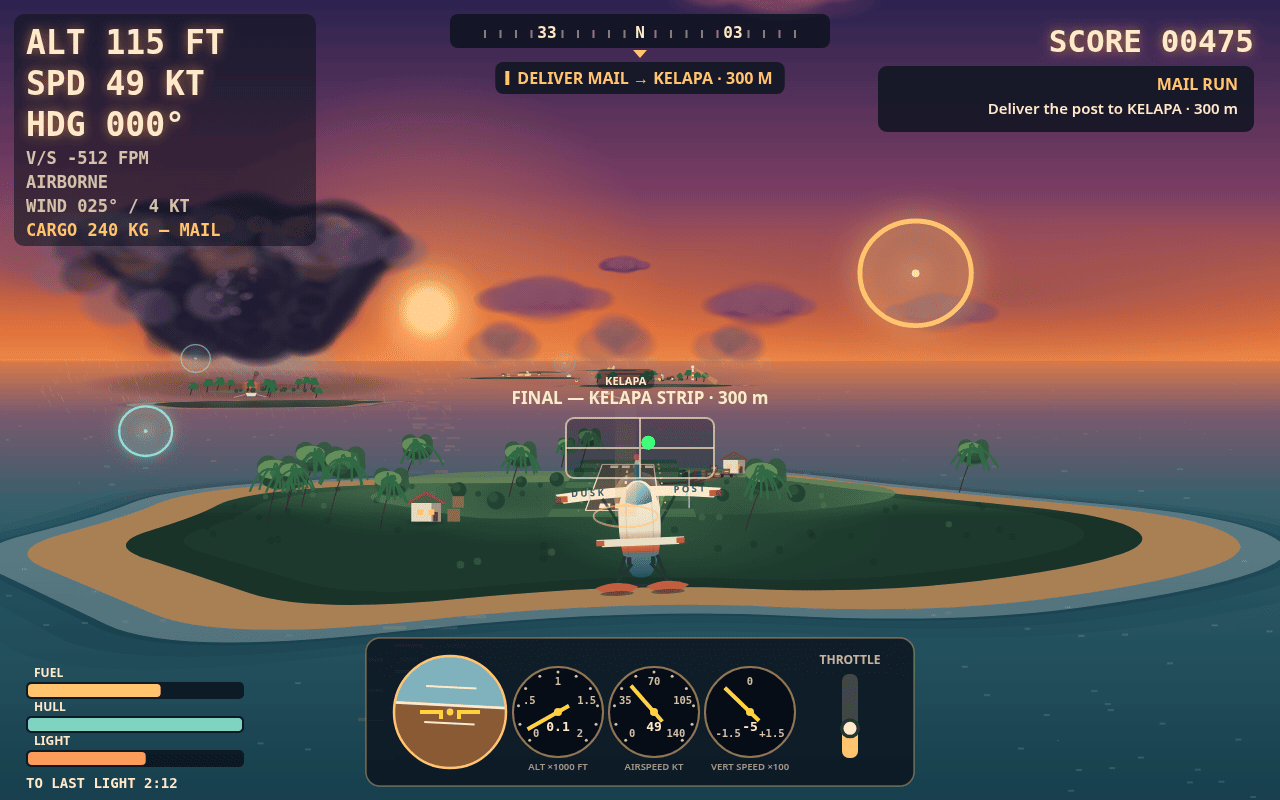
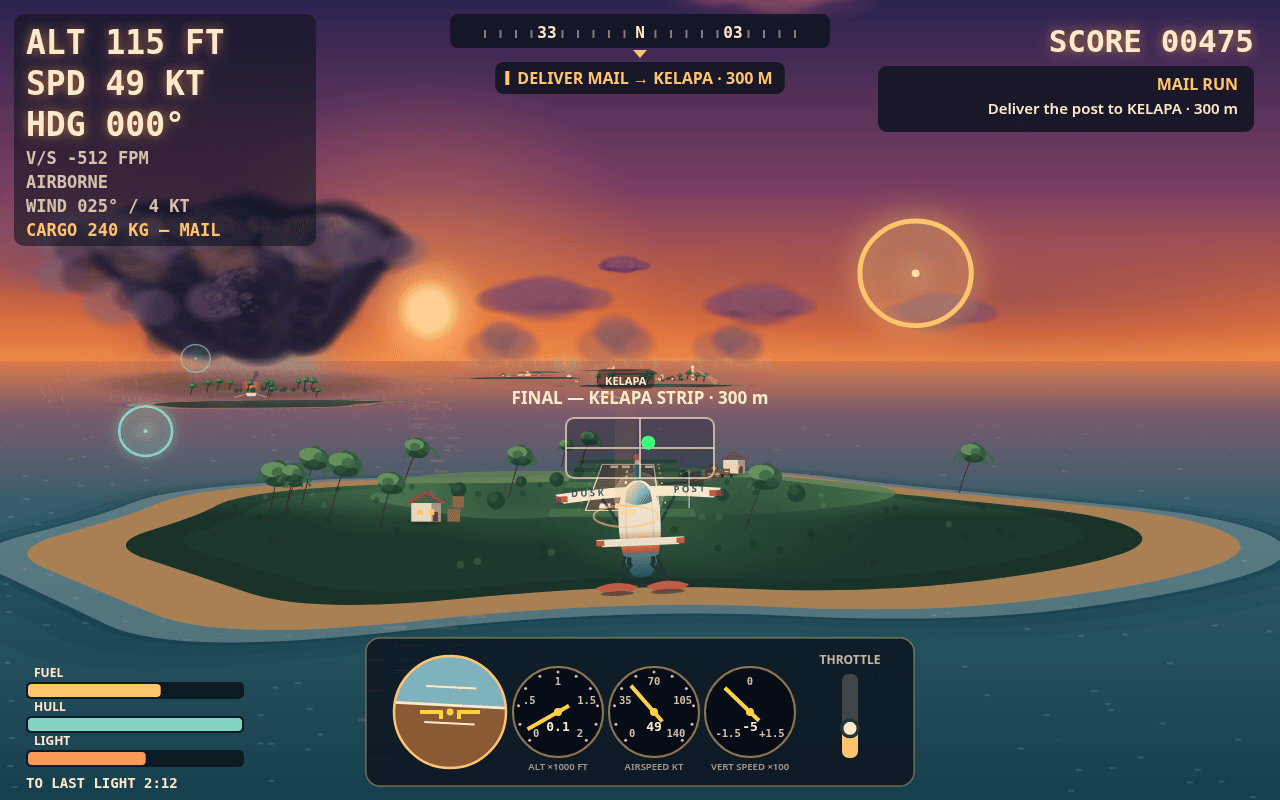
V16: per-band sea density, rain that reads, tree palms, lumpy shoulder
- drawSea: mid-band frame-biased pass (fwd 600-1400) closes the gap
  between the near-water gate and the far-band loop; left-weighted
  second near-water pass concentrates density in the thin boxes
  (delivery far-left 26->109 px >12, cover BL 114->239)
- drawStorm: bottom-band stipple extended py 560-796, count 160,
  stronger alpha (mid-right sea 49->201, storm BR 343->444)
- drawSquall: gap washes wider/brighter + post-puff gap lift,
  streaks 27->34 at 0.32 alpha, longer fall
- drawStorm shoulder: jittered duplicate mottle (dash pass removed:
  read as scratches); palms frond-first, smaller hub, three-bump
  ridge crowns, shorter hugging fronds
- Audit 11 problems: 5 fixed, 3 partial, 3 not fixed (shoulder discs
  still read at 2x; storm FUEL strip 13->18; approach mid-right sea
  403->364, mid-band keeps nothing at that camera)
- Gates: chain ALL PASS zero console errors; storm maxTurb 0.890,
  vy swing 1.66; squall kind squall turb 0.85; main.ts x2 diff clean,
  dossier md5 4d50c7b4d79c9829df00b3b4b7d996d8, output 1697131 B

diff --git a/game/src/render.js b/game/src/render.js
@@ -313,6 +313,80 @@ function drawSea(ctx, v, plane, light) {
     ctx.globalAlpha = clamp(0.5 - p.fwd / 2600, 0.10, 0.25);
     ctx.fillRect(p.x - len / 2, p.y, len, 2);
   }
+  // V16: a mid-band pass for the sea neither loop reaches — the
+  // near-water pass gates fwd ≤ 600 and the far-band loop samples
+  // py only up to horizon+90, so screen y horizon+90…+260 (fwd
+  // 600–1400 at the cover camera) carries no dashes at all: the
+  // cover's mid-right sea is dead flat (0 px >12) and the
+  // approach's mid-right sea is thin (V16 audit problems 6, 8).
+  // Same frame-biased sampling as the far-band loop, same dash
+  // shape; the far-band loop is untouched.
+  // V16 rev: the first render's dashes measured 0 px >12 in the
+  // target box — the fillStyle alpha (0.35) multiplies the
+  // globalAlpha (0.10–0.25), so each dash changed its pixels by
+  // ~5–7 levels, below the metric and below the eye. This pass
+  // sets its own fillStyle (alpha 1.0) so the globalAlpha below
+  // is the dash's real alpha: 0.12–0.30, the same strength the
+  // near-water dashes carry at mid range.
+  ctx.fillStyle = 'rgba(220,245,245,1)';
+  for (let i = 0; i < 90; i += 1) {
+    const hash = (salt) => {
+      const h = Math.sin(i * 12.9898 + salt * 7.77 + 17.3) * 43758.5453;
+      return h - Math.floor(h);
+    };
+    const px = 4 + hash(1) * 1272;
+    const py = v.horizon + 90 + hash(2) * 170;
+    if (py > 616 && py < 794 && px > 326 && px < 954) continue; // instrument panel
+    if (py > 641 && py < 796 && px > 16 && px < 249) continue; // fuel/hull gauges
+    const s = (py - v.horizon) / v.camY;
+    const fwd = v.focal / s;
+    if (fwd < 600 || fwd > 1400) continue;
+    const right = (px - VIEW_W / 2) / s;
+    const wx = v.camX + fwd * v.sinH + right * v.cosH;
+    const wz = v.camZ + fwd * v.cosH - right * v.sinH;
+    const p = project(v, wx, 0, wz);
+    if (!p) continue;
+    const len = clamp(p.s * 0.35, 4, 12);
+    ctx.globalAlpha = clamp(0.6 - p.fwd / 2600, 0.12, 0.30);
+    ctx.fillRect(p.x - len / 2, p.y, len, 2);
+  }
+  // V16: a left-weighted second near-water pass — the frame-biased
+  // pass spreads its 180 dashes over the whole visible sea, so a
+  // 150×40 px box holds ~4 of them: the delivery far-left sea
+  // (26 px >12), the cover's bottom-left sea (114) and the narrow
+  // strip between the FUEL and instrument panels (52/104) are all
+  // thin for the same reason (V16 audit problems 1, 5, 11). This
+  // pass samples only the frame's left third (px 4–460) with the
+  // same fwd gate and dash shape as the first pass, so those boxes
+  // get their own density instead of the frame's average. The
+  // existing 180-dash pass is unchanged.
+  // V16 rev: the first render lifted the delivery box only
+  // 26 → 71 and the cover BL only 114 → 180 — the pass works,
+  // it is just thin per box. Count 70 → 140. (The mid-band pass
+  // above sets fillStyle to alpha 1.0; this pass restores the
+  // 0.35 the near-water alpha math assumes.)
+  ctx.fillStyle = 'rgba(220,245,245,0.35)';
+  for (let i = 0; i < 140; i += 1) {
+    const hash = (salt) => {
+      const h = Math.sin(i * 12.9898 + salt * 7.77 + 23.7) * 43758.5453;
+      return h - Math.floor(h);
+    };
+    const px = 4 + hash(1) * 456;
+    const py = v.horizon + 24 + hash(2) * (796 - v.horizon - 24);
+    if (py > 616 && py < 794 && px > 326 && px < 954) continue; // instrument panel
+    if (py > 641 && py < 796 && px > 16 && px < 249) continue; // fuel/hull gauges
+    const s = (py - v.horizon) / v.camY;
+    const fwd = v.focal / s;
+    if (fwd < 80 || fwd > 600) continue;
+    const right = (px - VIEW_W / 2) / s;
+    const wx = v.camX + fwd * v.sinH + right * v.cosH;
+    const wz = v.camZ + fwd * v.cosH - right * v.sinH;
+    const p = project(v, wx, 0, wz);
+    if (!p) continue;
+    const len = clamp(p.s * 0.35, 6, 30);
+    ctx.globalAlpha = clamp(0.5 - p.fwd / 2600, 0.10, 0.4);
+    ctx.fillRect(p.x - len / 2, p.y, len, Math.max(2, p.s * 0.04));
+  }
   ctx.globalAlpha = 1;
 }
 
@@ -486,16 +560,20 @@ function drawSquall(ctx, v, sq, t) {
   // showers. A gap that is only absence reads as nothing at judge
   // size; a gap with light in it reads as a break in weather, which
   // is the squall's whole tactical story (a line you can time).
+  // V16: the washes were still marginal at judge size (V16 audit
+  // problem 2) — wider (0.08 → 0.12 half-width) and brighter
+  // (0.16 → 0.22 top), judged against the smear risk after the
+  // render: if the wash reads as a second bank, it is too much.
   for (const gfx of [-0.35, 0.35]) {
     const grad = ctx.createLinearGradient(0, baseY, 0, seaY);
-    grad.addColorStop(0, 'rgba(216,198,208,0.16)');
-    grad.addColorStop(1, 'rgba(216,198,208,0.05)');
+    grad.addColorStop(0, 'rgba(216,198,208,0.22)');
+    grad.addColorStop(1, 'rgba(216,198,208,0.08)');
     ctx.fillStyle = grad;
     ctx.beginPath();
-    ctx.moveTo(base.x + (gfx - 0.08) * halfW, baseY);
-    ctx.lineTo(base.x + (gfx + 0.08) * halfW, baseY);
-    ctx.lineTo(base.x + (gfx + 0.10) * halfW, seaY);
-    ctx.lineTo(base.x + (gfx - 0.10) * halfW, seaY);
+    ctx.moveTo(base.x + (gfx - 0.12) * halfW, baseY);
+    ctx.lineTo(base.x + (gfx + 0.12) * halfW, baseY);
+    ctx.lineTo(base.x + (gfx + 0.14) * halfW, seaY);
+    ctx.lineTo(base.x + (gfx - 0.14) * halfW, seaY);
     ctx.closePath();
     ctx.fill();
   }
@@ -505,16 +583,21 @@ function drawSquall(ctx, v, sq, t) {
   // rain is discrete now: ~27 streaks, alpha 0.28, 2 px wide —
   // short dashes, not a smear. (Length, ~0.55 of the fall, was
   // already right and is unchanged.)
-  ctx.strokeStyle = 'rgba(190,200,220,0.28)';
-  ctx.lineWidth = Math.max(2, s * 0.6);
-  const streaks = Math.max(5, Math.floor(halfW / 10));
+  // V16: the streaks still wash out at judge size — the curtain
+  // reads as a pale smear, not rain, at 768×480 (V16 audit problem
+  // 9). More rain per curtain: ~34 streaks, alpha 0.32, 2.5 px
+  // wide, 0.65 of the fall — still short dashes, not a smear;
+  // judged at judge size after the render.
+  ctx.strokeStyle = 'rgba(190,200,220,0.32)';
+  ctx.lineWidth = Math.max(2.5, s * 0.7);
+  const streaks = Math.max(5, Math.floor(halfW / 8));
   for (let i = 0; i < streaks; i += 1) {
     const fx = -0.88 + (i / Math.max(1, streaks - 1)) * 1.76;
     if (!inCluster(fx)) continue; // no streaks in the gaps: the rain breaks with the bank
     const drift = ((t * 0.8 + i * 0.29) % 1) * 0.3;
     ctx.beginPath();
     ctx.moveTo(base.x + fx * halfW, baseY + (seaY - baseY) * drift * 0.2);
-    ctx.lineTo(base.x + fx * halfW + halfW * 0.02, baseY + (seaY - baseY) * (0.55 + drift * 0.4));
+    ctx.lineTo(base.x + fx * halfW + halfW * 0.02, baseY + (seaY - baseY) * (0.65 + drift * 0.35));
     ctx.stroke();
   }
   // Distance haze for the bank itself: the islands retint toward the
@@ -536,6 +619,25 @@ function drawSquall(ctx, v, sq, t) {
     if (fy < 0.5) continue;
     softPuff(ctx, base.x + fx * halfW - halfW * 0.02, baseY - bodySpan * (fy + 0.05), fr * halfW * 0.66, blend(96, 84, 120, 0.56), blend(96, 84, 120, 0));
   }
+  // V16 rev: the gap wash above draws BEFORE the bank puffs, so the
+  // puff tails bury most of it — the first render lifted the gap
+  // centres by only +3–4 levels (V16 audit problem 2). This second
+  // wash draws AFTER the puffs, in the gaps only, same geometry,
+  // 0.14 → 0.04: light the eye can hold at judge size, narrow
+  // enough not to become a second bank.
+  for (const gfx of [-0.35, 0.35]) {
+    const grad = ctx.createLinearGradient(0, baseY, 0, seaY);
+    grad.addColorStop(0, 'rgba(216,198,208,0.14)');
+    grad.addColorStop(1, 'rgba(216,198,208,0.04)');
+    ctx.fillStyle = grad;
+    ctx.beginPath();
+    ctx.moveTo(base.x + (gfx - 0.12) * halfW, baseY);
+    ctx.lineTo(base.x + (gfx + 0.12) * halfW, baseY);
+    ctx.lineTo(base.x + (gfx + 0.14) * halfW, seaY);
+    ctx.lineTo(base.x + (gfx - 0.14) * halfW, seaY);
+    ctx.closePath();
+    ctx.fill();
+  }
 
   // Rain-light at the sea line: a soft pale band where the curtain
   // meets the water, so the bank hangs into the sea through its own
@@ -556,13 +658,14 @@ function drawSquall(ctx, v, sq, t) {
   ctx.restore();
   // The gaps get their own brighter spot on that sea line, where the
   // gap's rain-light wash lands: the break in the bank reads all the
-  // way down to the water.
+  // way down to the water. V16: 0.18 → 0.24, with the wider wash
+  // above (V16 audit problem 2).
   for (const gfx of [-0.35, 0.35]) {
     ctx.save();
     ctx.translate(base.x + gfx * halfW, seaY);
     ctx.scale(1, 0.07);
     const spot = ctx.createRadialGradient(0, 0, 2, 0, 0, halfW * 0.17);
-    spot.addColorStop(0, 'rgba(206,196,210,0.18)');
+    spot.addColorStop(0, 'rgba(206,196,210,0.24)');
     spot.addColorStop(1, 'rgba(206,196,210,0)');
     ctx.fillStyle = spot;
     ctx.beginPath();
@@ -694,25 +797,32 @@ function drawStorm(ctx, v, storm, t) {
     ctx.lineTo(px + len * 0.35, py + len);
     ctx.stroke();
   }
-  // V15: the ring above still wastes most of its dashes off-frame
-  // and above the sea line — 11 of them land in the bottom-right
-  // corner (V15 audit problem 9). A bottom-band frame-biased
-  // stipple: sample the screen point in the visible bottom band
-  // and invert through the cell geometry (fx = (px−cx)/R,
-  // fz = (py−seaY)/(R×0.085)), kept only inside the annulus and
-  // outside the bottom instrument panel — every kept dash lands
-  // in the visible bottom band. Same slant, length and alpha as
-  // the ring above; the 240-dash loop is unchanged.
-  for (let i = 0; i < 60; i += 1) {
+  // V16: the strip right of the FUEL panel (py 640–700) is inside
+  // the shadow disc (d2 ≤ 0.6), so the annulus floor kept this
+  // pass off it, and the mid-right sea (py 560–620) sits above
+  // the pass's py range (V16 audit problems 7, 10). The pass now
+  // samples py 560–796 with twice the count and no annulus floor
+  // (d2 ≤ 9.4 only) — it grains the shadow's visible band as well
+  // as the open sea — and rejects both bottom HUD rects. Same
+  // slant, length and alpha as the ring above; the 240-dash loop
+  // is unchanged.
+  // V16 rev: the first render changed the FUEL strip 13 → 13 —
+  // the pass works (mid-right sea 49 → 126) but the strip's box
+  // holds ~2 dashes of 1 px width at alpha ≤ 0.14, below the
+  // metric. Count 110 → 160 and the alpha lifts (base 0.06–0.11
+  // → 0.08–0.14, cap 0.14 → 0.20), so a dash on the dark shadow
+  // sea changes its pixels by ~20 levels instead of ~13.
+  for (let i = 0; i < 160; i += 1) {
     const px = 4 + grain(i, 111) * 1272;
-    const py = 700 + grain(i, 112) * 96;
+    const py = 560 + grain(i, 112) * 236;
     if (py > 616 && py < 794 && px > 326 && px < 954) continue; // instrument panel
+    if (py > 641 && py < 796 && px > 16 && px < 249) continue; // fuel/hull gauges
     const fx = (px - cx) / R;
     const fz = (py - seaY) / (R * 0.085);
     const d2 = fx * fx * 0.8 + fz * fz;
-    if (d2 < 1.15 || d2 > 9.4) continue;
+    if (d2 > 9.4) continue;
     const len = R * (0.015 + grain(i, 113) * 0.025);
-    ctx.globalAlpha = Math.min(0.14, (0.06 + grain(i, 114) * 0.05) * shaftBoostPre);
+    ctx.globalAlpha = Math.min(0.20, (0.08 + grain(i, 114) * 0.06) * shaftBoostPre);
     ctx.beginPath();
     ctx.moveTo(px, py);
     ctx.lineTo(px + len * 0.35, py + len);
@@ -1003,6 +1113,31 @@ function drawStorm(ctx, v, storm, t) {
       lit ? 'rgba(122,96,128,0.30)' : 'rgba(30,26,48,0.32)',
       lit ? 'rgba(122,96,128,0)' : 'rgba(30,26,48,0)',
     );
+  }
+  // V16 rev: the dash pass is REMOVED — the first render's
+  // dashes read as scratches, a separate layer of thin dark
+  // marks over the cloud, and the pale discs are still readable
+  // as circles at 2×. Dashes placed independently of the puffs
+  // cannot break a rim they never touch. The proven fix in this
+  // file is the belly's own: a jittered duplicate. Each mottle
+  // puff gets two small duplicates at hashed offsets, opposite
+  // tone, 0.55× radius — they overlap the original's rim
+  // asymmetrically, so each blob is lumpy, not circular.
+  for (let i = 0; i < 24; i += 1) {
+    const fx = -0.20 + (i / 23) * 0.25 + (grain(i, 101) - 0.5) * 0.05;
+    const fy = 0.25 + grain(i, 102) * 0.40;
+    const fr = 0.03 + grain(i, 103) * 0.025;
+    const lit = i % 2 === 0;
+    for (const [jx, jy, jr] of [[0.018, 0.012, 0.55], [-0.015, -0.014, 0.5]]) {
+      softPuff(
+        ctx,
+        cx + (fx + jx + (grain(i, 125) - 0.5) * 0.01) * R,
+        baseY - bodySpan * (fy + jy + (grain(i, 126) - 0.5) * 0.01),
+        fr * R * jr,
+        lit ? 'rgba(30,26,48,0.22)' : 'rgba(122,96,128,0.20)',
+        lit ? 'rgba(30,26,48,0)' : 'rgba(122,96,128,0)',
+      );
+    }
   }
   for (let i = 0; i < 6; i += 1) {
     const fx = -0.62 + i * 0.24 + (grain(i, 5) - 0.5) * 0.06;
@@ -2235,6 +2370,35 @@ function drawPalm(ctx, v, x, y, z, s) {
     const hh = Math.sin(x * 12.9898 + z * 0.371 + i * 7.77 + salt * 3.1) * 43758.5453;
     return hh - Math.floor(hh);
   };
+  // V16: frond-first — the fronds draw BEFORE the crown body, so
+  // their roots hide inside the mass and their arcs define the
+  // silhouette's outer edge instead of sticking out of a disc
+  // (V16 audit problem 4). The middle three still arc over the
+  // top; only the hub they emerge from is smaller now.
+  // V15 rev: the first render's fronds were still thin lines
+  // sticking out sideways past the crown (2× delivery crop) —
+  // shorter, thicker, denser, drooping deeper, so they read as
+  // foliage mass hugging the crown instead of spider legs. The
+  // middle three of nine arc over the top (0.85), as before.
+  ctx.strokeStyle = '#2f6b46';
+  ctx.lineWidth = Math.max(2.2, base.s * 0.24);
+  for (let i = 0; i < 9; i += 1) {
+    const a = Math.PI * (0.05 + i * 0.115);
+    const ox = tx + (ph(i, 41) - 0.5) * h * 0.30;
+    const oy = ty - h * 0.10 + ph(i, 42) * h * 0.03;
+    const len = h * (0.28 + ph(i, 43) * 0.14);
+    const droop = h * (0.22 + ph(i, 44) * 0.14);
+    // V14: every frond peaked below the crown's top edge, so no
+    // frond ever broke the silhouette and the crown read as a disc
+    // (V14 audit problem 3). The three middle fronds arc over the
+    // top now (control factor 0.85, peaks ~ty − 0.32h); the side
+    // fronds keep the old low arc.
+    const arc = (i >= 3 && i <= 5) ? 0.85 : 0.30;
+    ctx.beginPath();
+    ctx.moveTo(ox, oy);
+    ctx.quadraticCurveTo(ox + Math.cos(a) * len * 0.5, oy - Math.sin(a) * len * arc, ox + Math.cos(a) * len, oy + droop);
+    ctx.stroke();
+  }
   if (base.s < 30) {
     ctx.save();
     // V11: the crown is two-tone and its alpha floor is lifted.
@@ -2253,28 +2417,41 @@ function drawPalm(ctx, v, x, y, z, s) {
     // base, a higher lit top, a deeper underside crescent. Frond
     // angles and lengths are untouched — the approach frame's palms
     // read well and are not re-opened.
+    // V16: the hub is smaller under the frond-first draw — the
+    // crown's top edge is now frond-defined, not disc-defined
+    // (V16 audit problem 4). Base 0.38h×0.28h → 0.30h×0.22h;
+    // three small bumps of different sizes and heights (see the
+    // V16 rev note below) ridge the top edge instead of two
+    // matching lobes.
     ctx.fillStyle = '#2c5a3c';
     ctx.beginPath();
-    ctx.ellipse(tx, ty + h * 0.02, h * 0.38, h * 0.28, 0, 0, Math.PI * 2);
+    ctx.ellipse(tx, ty + h * 0.02, h * 0.30, h * 0.22, 0, 0, Math.PI * 2);
     ctx.fill();
-    // V14: the crown was still one clean ellipse — the dome was
-    // interior shading, and the top edge read as a disc at close
-    // and mid range (V14 audit problem 3). Two lobes on the crown's
-    // top break the silhouette into a lumpy mass: their tops reach
-    // ty − 0.34h, 0.08h above the base top.
+    // V16 rev: the first render still reads as two discs side by
+    // side at 2× — the two lobes match each other too well, and
+    // the fronds dangle 0.34–0.54h below the crown like
+    // tentacles instead of hugging it. Three smaller bumps of
+    // different sizes and heights (0.09–0.12h at ty−0.04h,
+    // ty−0.14h, ty−0.08h) make the top edge a lumpy ridge with
+    // no single clean arc; the fronds shorten (0.28–0.42h) and
+    // droop less (0.22–0.36h) so they stay inside the crown's
+    // silhouette instead of hanging past it.
     ctx.beginPath();
-    ctx.ellipse(tx - h * 0.20, ty - h * 0.14, h * 0.20, h * 0.20, 0, 0, Math.PI * 2);
+    ctx.ellipse(tx - h * 0.14, ty - h * 0.04, h * 0.10, h * 0.10, 0, 0, Math.PI * 2);
     ctx.fill();
     ctx.beginPath();
-    ctx.ellipse(tx + h * 0.19, ty - h * 0.14, h * 0.18, h * 0.20, 0, 0, Math.PI * 2);
+    ctx.ellipse(tx, ty - h * 0.14, h * 0.12, h * 0.12, 0, 0, Math.PI * 2);
+    ctx.fill();
+    ctx.beginPath();
+    ctx.ellipse(tx + h * 0.14, ty - h * 0.08, h * 0.09, h * 0.09, 0, 0, Math.PI * 2);
     ctx.fill();
     ctx.fillStyle = '#1e4229';
     ctx.beginPath();
-    ctx.ellipse(tx, ty + h * 0.15, h * 0.30, h * 0.12, 0, 0, Math.PI * 2);
+    ctx.ellipse(tx, ty + h * 0.15, h * 0.24, h * 0.10, 0, 0, Math.PI * 2);
     ctx.fill();
     ctx.fillStyle = '#6f9a5f';
     ctx.beginPath();
-    ctx.ellipse(tx - h * 0.09, ty - h * 0.08, h * 0.30, h * 0.18, 0, 0, Math.PI * 2);
+    ctx.ellipse(tx - h * 0.09, ty - h * 0.08, h * 0.24, h * 0.14, 0, 0, Math.PI * 2);
     ctx.fill();
     // V15 rev: the crown is still one flat tone under the lit cap
     // (2× delivery crop) — two small mid-tone ellipses break the
@@ -2282,38 +2459,15 @@ function drawPalm(ctx, v, x, y, z, s) {
     // carry the same patches.
     ctx.fillStyle = '#356b47';
     ctx.beginPath();
-    ctx.ellipse(tx + (ph(9, 45) - 0.5) * h * 0.3, ty - h * 0.02, h * 0.16, h * 0.12, 0, 0, Math.PI * 2);
+    ctx.ellipse(tx + (ph(9, 45) - 0.5) * h * 0.3, ty - h * 0.02, h * 0.13, h * 0.10, 0, 0, Math.PI * 2);
     ctx.fill();
     ctx.fillStyle = '#265231';
     ctx.beginPath();
-    ctx.ellipse(tx - (ph(9, 46) - 0.5) * h * 0.3, ty + h * 0.10, h * 0.14, h * 0.10, 0, 0, Math.PI * 2);
+    ctx.ellipse(tx - (ph(9, 46) - 0.5) * h * 0.3, ty + h * 0.10, h * 0.11, h * 0.08, 0, 0, Math.PI * 2);
     ctx.fill();
     ctx.restore();
   }
-  // V15 rev: the first render's fronds were still thin lines
-  // sticking out sideways past the crown (2× delivery crop) —
-  // shorter, thicker, denser, drooping deeper, so they read as
-  // foliage mass hugging the crown instead of spider legs. The
-  // middle three of nine arc over the top (0.85), as before.
-  ctx.strokeStyle = '#2f6b46';
-  ctx.lineWidth = Math.max(2.2, base.s * 0.24);
-  for (let i = 0; i < 9; i += 1) {
-    const a = Math.PI * (0.05 + i * 0.115);
-    const ox = tx + (ph(i, 41) - 0.5) * h * 0.30;
-    const oy = ty - h * 0.10 + ph(i, 42) * h * 0.03;
-    const len = h * (0.34 + ph(i, 43) * 0.18);
-    const droop = h * (0.34 + ph(i, 44) * 0.20);
-    // V14: every frond peaked below the crown's top edge, so no
-    // frond ever broke the silhouette and the crown read as a disc
-    // (V14 audit problem 3). The three middle fronds arc over the
-    // top now (control factor 0.85, peaks ~ty − 0.32h); the side
-    // fronds keep the old low arc.
-    const arc = (i >= 3 && i <= 5) ? 0.85 : 0.30;
-    ctx.beginPath();
-    ctx.moveTo(ox, oy);
-    ctx.quadraticCurveTo(ox + Math.cos(a) * len * 0.5, oy - Math.sin(a) * len * arc, ox + Math.cos(a) * len, oy + droop);
-    ctx.stroke();
-  }
+  // (Fronds now draw before the crown body — see the V16 note above.)
 }
 
 function drawLighthouse(ctx, v, isl, t) {
